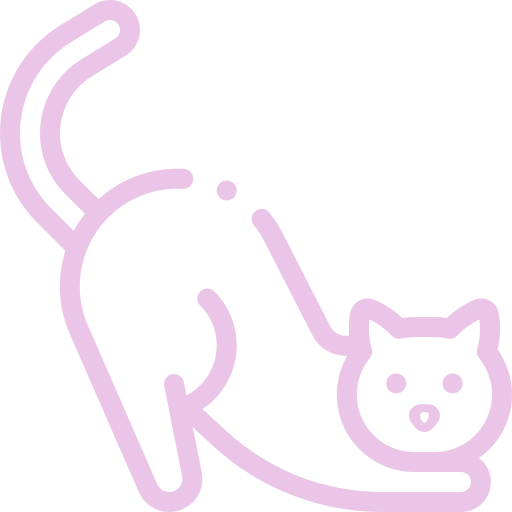
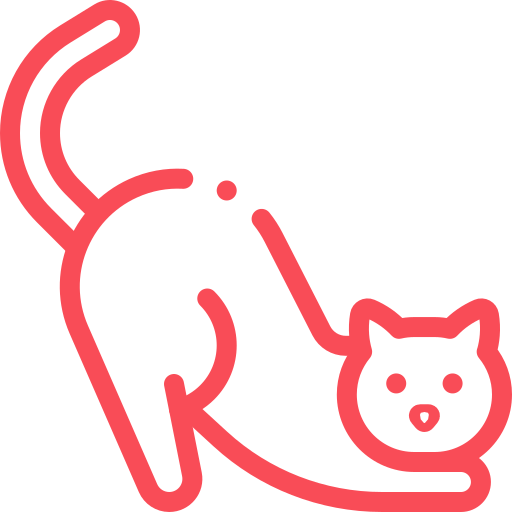
add sign-in ui

Changed region(s): [[0.0, 0.0, 1.0, 1.0], [0.75, 0.7188, 0.9062, 0.8438], [0.4062, 0.3438, 0.4688, 0.4062]]

diff --git a/app/(auth)/otp.tsx b/app/(auth)/otp.tsx
@@ -1,0 +1,58 @@
+import { ScrollView, View, Text, Image } from 'react-native'
+import React, { useState } from 'react'
+import { SafeAreaView } from 'react-native-safe-area-context'
+import { StatusBar } from 'expo-status-bar'
+import FormField from '../../components/FormField'
+import images from '../../constants/images'
+import CustomButton from '../../components/CustomButton'
+import { Link, router } from 'expo-router'
+
+
+
+const Otp = () => {
+
+    const [otp, setOTP] = useState<string>('')
+
+    return (
+        <SafeAreaView className="bg-black h-full">
+            <ScrollView>
+                <View className='w-[100vw] items-center justify-normal'>
+                    <Image
+                        source={images.cat2}
+                        className='w-[160px] h-[80px]'
+                        resizeMode='contain' />
+                </View>
+                <View className="w-full h-[80vh] px-4 items-center justify-center">
+                    <View className='mt-5 w-[80%]'>
+                        <FormField
+                            value={otp}
+                            handleChangeText={(e) => setOTP(e)}
+                            placeholder='OTP'
+                            keyboardType='numeric'
+                            containerStyles='w-full h-16 mt-3 rounded-md justify-center px-4 text-white border-2 border-slate focus:border-red'
+                            titleStyles='font-ibold text-white text-2xl'
+                            textInputStyles='text-white'
+                            title="Enter OTP sent to your email"
+                        />
+                    </View>
+                    <CustomButton
+                        handlePress={() => router.push('/otp')}
+                        containerStyles="w-[80%] h-[52px] bg-[#f94c57] mt-3 rounded-3xl"
+                        textStyles="text-3xl font-iextrabold items-center text-center justify-center mt-3"
+                        title="Sign In" />
+                    <CustomButton
+                        handlePress={() => router.push('/otp')}
+                        containerStyles="w-[80%] h-[52px] bg-[#343433] mt-3 rounded-3xl"
+                        textStyles="text-xl text-white font-iextrabold items-center text-center justify-center mt-4"
+                        title="Resend OTP" />
+                    <Link href="/email" className='text-lg text-bright_blue mt-2 font-ibold'>Entered Wrong Email?</Link>
+                </View>
+            </ScrollView>
+            <StatusBar
+                backgroundColor='black'
+                style='light' />
+        </SafeAreaView>
+    )
+}
+
+export default Otp

diff --git a/app/(auth)/email.tsx b/app/(auth)/email.tsx
@@ -1,0 +1,57 @@
+import { ScrollView, View, Text, Image } from 'react-native'
+import React, { useState } from 'react'
+import { SafeAreaView } from 'react-native-safe-area-context'
+import { StatusBar } from 'expo-status-bar'
+import FormField from '../../components/FormField'
+import images from '../../constants/images'
+import CustomButton from '../../components/CustomButton'
+import { router } from 'expo-router'
+
+
+
+const Email = () => {
+
+    const [email, setEmail] = useState<string>('')
+
+    return (
+        <SafeAreaView className="bg-black h-full">
+            <ScrollView>
+                <View className='w-[100vw] items-center justify-normal'>
+                    <Image
+                        source={images.cat2}
+                        className='w-[160px] h-[80px]'
+                        resizeMode='contain' />
+                </View>
+                <View className="w-full h-[80vh] px-4 items-center justify-center">
+                    <View className='mt-5 w-[80%]'>
+                        <FormField
+                            value={email}
+                            handleChangeText={(e) => setEmail(e)}
+                            placeholder='Email Address'
+                            keyboardType='email-address'
+                            containerStyles='w-full h-16 mt-3 rounded-md justify-center px-4 text-white border-2 border-slate focus:border-red'
+                            titleStyles='font-ibold text-white text-2xl'
+                            textInputStyles='text-white'
+                            title="Enter your email"
+                        />
+                    </View>
+                    <CustomButton
+                        handlePress={() => router.push('/otp')}
+                        containerStyles="w-[80%] h-[52px] bg-[#f94c57] mt-3 rounded-3xl"
+                        textStyles="text-3xl font-iextrabold items-center text-center justify-center mt-3"
+                        title="Get OTP" />
+                    <CustomButton
+                        handlePress={() => router.push('/home')}
+                        containerStyles="w-[80%] h-[52px] bg-[#343433] mt-3 rounded-3xl"
+                        textStyles="text-xl text-white font-iextrabold items-center text-center justify-center mt-4"
+                        title="Continue as Guest" />
+                </View>
+            </ScrollView>
+            <StatusBar
+                backgroundColor='black'
+                style='light' />
+        </SafeAreaView>
+    )
+}
+
+export default Email

diff --git a/app/index.tsx b/app/index.tsx
@@ -3,19 +3,21 @@ import { SafeAreaView } from 'react-native-safe-area-context'
 
 import images from "../constants/images"
 import CustomButton from '../components/CustomButton'
+import { StatusBar } from 'expo-status-bar'
+import { router } from 'expo-router'
 
 const App = () => {
   return (
     <SafeAreaView className="bg-black h-full">
       <ScrollView contentContainerStyle={{ height: '100%' }}>
-        <View className="relative w-full h-full justify-center items-center px-4">
+        <View className="relative w-full h-[90vh] justify-center items-center px-4">
           <Image
-            source={images.cat}
-            className="w-[260px] h-[128px]"
+            source={images.cat2}
+            className="w-[272px] h-[156px]"
             resizeMode="contain"
           />
           <View className="relative items-end justify-end">
-            <Text className="mt-5 font-iextrabold text-[#9b9b9b] text-4xl">
+            <Text className="mt-3 font-iextrabold text-[#c2cad7] text-4xl">
               Millions of songs
             </Text>
             <Text className="mt-1 font-iextrabold text-white text-4xl">
@@ -23,12 +25,15 @@ const App = () => {
             </Text>
           </View>
           <CustomButton
-            handlePress={() => { }}
-            containerStyles="w-[80%] h-[52px]"
-            textStyles="text-3xl font-iextrabold"
+            handlePress={() => router.push('/email')}
+            containerStyles="w-[80%] h-[52px] bg-[#f94c57] mt-3 rounded-3xl"
+            textStyles="text-3xl font-iextrabold items-center text-center justify-center mt-3"
             title="Continue" />
         </View>
       </ScrollView>
+      <StatusBar
+        backgroundColor='black'
+        style='light' />
     </SafeAreaView>
   )
 }

diff --git a/components/FormField.tsx b/components/FormField.tsx
@@ -1,0 +1,38 @@
+import { View, Text, TextInput, KeyboardTypeOptions } from 'react-native'
+import React, { useState } from 'react'
+
+interface FormFieldProps {
+    value?: string,
+    title: string,
+    placeholder?: string,
+    containerStyles?: string,
+    textInputStyles?: string,
+    titleStyles?: string,
+    handleChangeText?: (e: string) => void,
+    keyboardType?: KeyboardTypeOptions,
+    type?: string,
+}
+
+
+const FormField: React.FC<FormFieldProps> = ({ title, value, placeholder, containerStyles, titleStyles, textInputStyles, handleChangeText, keyboardType, type, ...props }) => {
+    const [showPassword, setShowPassword] = useState(false)
+
+    return (
+        <View>
+            <Text className={titleStyles}>{title}</Text>
+            <View className={containerStyles}>
+                <TextInput
+                    className={textInputStyles}
+                    onChangeText={handleChangeText}
+                    value={value}
+                    placeholder={placeholder}
+                    placeholderTextColor='#9b9b9b'
+                    keyboardType={keyboardType}
+                    secureTextEntry={type === 'password' && !showPassword}
+                />
+            </View>
+        </View>
+    )
+}
+
+export default FormField

diff --git a/app/_layout.tsx b/app/_layout.tsx
@@ -6,22 +6,23 @@ import { useEffect } from 'react';
 SplashScreen.preventAutoHideAsync();
 
 const RootLayout = () => {
-  
+
   const [fontsLoaded, error] = useFonts({
     "Inter-Bold": require("../assets/fonts/Inter_18pt-Bold.ttf"),
     "Inter-ExtraBold": require("../assets/fonts/Inter_18pt-ExtraBold.ttf")
   });
 
   useEffect(() => {
-    if(error) throw error;
-    if(fontsLoaded) SplashScreen.hideAsync()
+    if (error) throw error;
+    if (fontsLoaded) SplashScreen.hideAsync()
   }, [fontsLoaded, error]);
 
-  if(!fontsLoaded && !error) return null;
+  if (!fontsLoaded && !error) return null;
 
   return (
     <Stack>
-      <Stack.Screen name="index" options={{headerShown: false}} />
+      <Stack.Screen name="index" options={{ headerShown: false }} />
+      <Stack.Screen name="(auth)" options={{ headerShown: false }} />
     </Stack>
   )
 }

diff --git a/app/(auth)/_layout.tsx b/app/(auth)/_layout.tsx
@@ -1,0 +1,26 @@
+
+import React from 'react'
+import { Stack } from 'expo-router'
+import { StatusBar } from 'expo-status-bar'
+
+const AuthLayout = () => {
+    return (
+        <>
+            <Stack>
+                <Stack.Screen
+                    name="email"
+                    options={{
+                        headerShown: false
+                    }} />
+                <Stack.Screen
+                    name="otp"
+                    options={{
+                        headerShown: false
+                    }} />
+            </Stack>
+            <StatusBar />
+        </>
+    )
+}
+
+export default AuthLayout

diff --git a/components/CustomButton.tsx b/components/CustomButton.tsx
@@ -13,9 +13,10 @@ const CustomButton: React.FC<CustomButtonProps> = ({ title, handlePress, contain
     return (
         <TouchableOpacity
             activeOpacity={0.7}
-            onPress={() => { }}
-            className={`bg-lightpink mt-2 rounded-3xl ${containerStyles}`}>
-            <Text className={`justify-center items-center align-middle text-center mt-2 ${textStyles}`}>Continue</Text>
+            onPress={handlePress}
+            className={`${containerStyles}`}
+            disabled={isLoading}>
+            <Text className={`${textStyles}`}>{title}</Text>
         </TouchableOpacity>
     )
 }

diff --git a/constants/images.js b/constants/images.js
@@ -3,7 +3,8 @@ import pause from "../assets/images/pause_icon.png";
 import menu from "../assets/images/menu_icon.png";
 import back from "../assets/images/back_icon.png";
 import skip from "../assets/images/skip_icon.png";
-import cat from "../assets/images/cat_icon.png"
+import cat from "../assets/images/cat_icon.png";
+import cat2 from "../assets/images/cat_icon2.png";
 
 export default {
     play,
@@ -11,5 +12,6 @@ export default {
     menu,
     back,
     skip,
-    cat
+    cat,
+    cat2
 }

diff --git a/tailwind.config.js b/tailwind.config.js
@@ -8,8 +8,12 @@ module.exports = {
       colors: {
         black: '#000000',
         white: '#FFFFFF',
-        lightpink: '#EAC5E8',
-        red: '#FF0000',
+        light_pink: '#EAC5E8',
+        red: '#fc3c44',
+        light_red: '#f94c57',
+        slate: '#c2cad7',
+        grey: '#343433',
+        bright_blue: '#0096ff',
       },
       fontFamily: {
         ibold: ["Inter-Bold", "sans-serif"],

diff --git a/components/CustomOtp.tsx b/components/CustomOtp.tsx
@@ -1,0 +1,12 @@
+import { View, Text } from 'react-native'
+import React from 'react'
+
+const CustomOtp = () => {
+    return (
+        <View>
+            <Text>CustomOtp</Text>
+        </View>
+    )
+}
+
+export default CustomOtp
